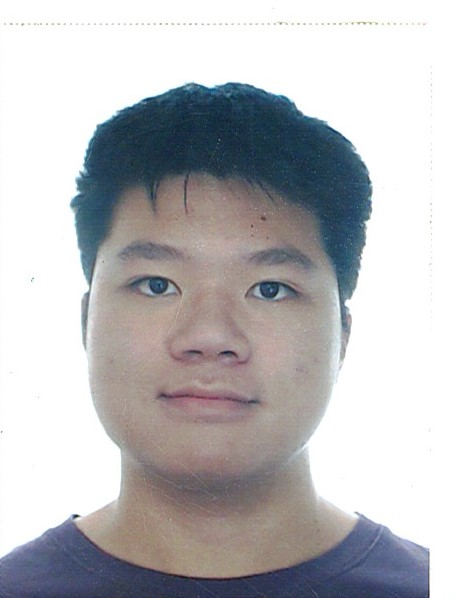
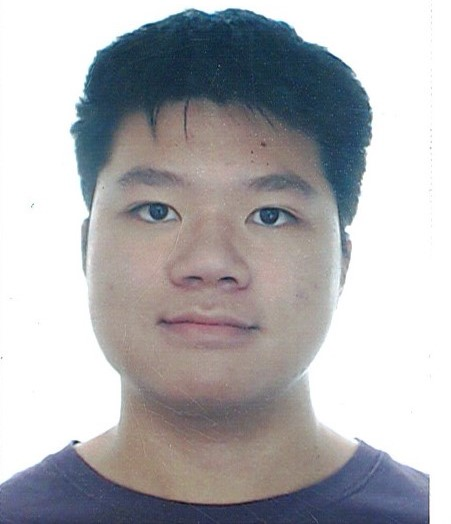
add member shuang

Changed region(s): [[0.1552, 0.0, 0.9623, 1.0], [0.0, 0.7939, 0.6208, 0.9771], [0.7761, 0.0305, 0.8381, 0.0611]]

diff --git a/_site/members.html b/_site/members.html
@@ -77,6 +77,12 @@
 			</li>
 		
 			<li>
+				<a href="/lab.html" >
+					Lab
+				</a>
+			</li>
+		
+			<li>
 				<a href="/contact.html" >
 					Contact Us
 				</a>
@@ -133,7 +139,9 @@
 				<div class="row">
 					<div class="col-md-4">
 						
+						<div class="member-image-container">
 						<img src="/assets/images/members/chiueh.jpg">
+						</div>
 						
 					</div>
 
@@ -187,7 +195,9 @@ Tzihong Chiueh’s research interests include Theoretical Astrophysics, Computat
 				<div class="row">
 					<div class="col-md-4">
 						
+						<div class="member-image-container">
 						<img src="/assets/images/members/bonwood.jpg">
+						</div>
 						
 					</div>
 
@@ -233,7 +243,9 @@ Tzihong Chiueh’s research interests include Theoretical Astrophysics, Computat
 				<div class="row">
 					<div class="col-md-4">
 						
+						<div class="member-image-container">
 						<img src="/assets/images/members/xuanweishan.jpg">
+						</div>
 						
 					</div>
 
@@ -288,7 +300,9 @@ Tzihong Chiueh’s research interests include Theoretical Astrophysics, Computat
 				<div class="row">
 					<div class="col-md-4">
 						
+						<div class="member-image-container">
 						<img src="/assets/images/members/koalakawaii.jpg">
+						</div>
 						
 					</div>
 
@@ -403,7 +417,9 @@ Tzihong Chiueh’s research interests include Theoretical Astrophysics, Computat
 				<div class="row">
 					<div class="col-md-4">
 						
+						<div class="member-image-container">
 						<img src="/assets/images/members/vicent.jpg">
+						</div>
 						
 					</div>
 
@@ -440,7 +456,9 @@ Tzihong Chiueh’s research interests include Theoretical Astrophysics, Computat
 				<div class="row">
 					<div class="col-md-4">
 						
+						<div class="member-image-container">
 						<img src="/assets/images/members/liChun.jpg">
+						</div>
 						
 					</div>
 
@@ -486,7 +504,9 @@ Tzihong Chiueh’s research interests include Theoretical Astrophysics, Computat
 				<div class="row">
 					<div class="col-md-4">
 						
+						<div class="member-image-container">
 						<img src="/assets/images/members/chunyen.jpg">
+						</div>
 						
 					</div>
 
@@ -532,7 +552,9 @@ Tzihong Chiueh’s research interests include Theoretical Astrophysics, Computat
 				<div class="row">
 					<div class="col-md-4">
 						
+						<div class="member-image-container">
 						<img src="/assets/images/members/arthurHsu.jpg">
+						</div>
 						
 					</div>
 
@@ -594,7 +616,9 @@ Tzihong Chiueh’s research interests include Theoretical Astrophysics, Computat
 				<div class="row">
 					<div class="col-md-4">
 						
+						<div class="member-image-container">
 						<img src="/assets/images/members/cliff.jpg">
+						</div>
 						
 					</div>
 
@@ -656,7 +680,9 @@ Tzihong Chiueh’s research interests include Theoretical Astrophysics, Computat
 				<div class="row">
 					<div class="col-md-4">
 						
+						<div class="member-image-container">
 						<img src="/assets/images/members/weininden.jpg">
+						</div>
 						
 					</div>
 
@@ -709,7 +735,9 @@ Tzihong Chiueh’s research interests include Theoretical Astrophysics, Computat
 				<div class="row">
 					<div class="col-md-4">
 						
+						<div class="member-image-container">
 						<img src="/assets/images/members/yiHao.jpg">
+						</div>
 						
 					</div>
 
@@ -777,6 +805,45 @@ Tzihong Chiueh’s research interests include Theoretical Astrophysics, Computat
 				</div>
 				
 				
+				
+				<div class="row">
+					<div class="col-md-4">
+						
+						<div class="member-image-container">
+						<img src="/assets/images/members/shuang.jpg">
+						</div>
+						
+					</div>
+
+					<div class="col-md-8">
+						<h4>陳雙雙 (Chen Shuang Shuang)</h4>
+						<ul>
+							<li>Position: Bachelor</li>
+
+							
+
+							<li>
+								Intro:<br>
+								<div class="intro" id="shuang">
+									I am a student at National Taiwan University Department of Physics. My research interests are dark matter and supermassive black holes. Now I am working on applying wave dark matter to the evolution of supermassive black holes.
+								</div>
+								
+								
+							</li>
+
+							
+							<li>
+								e-mail: <a href="shuangshuang0411@gmail.com">shuangshuang0411@gmail.com</a>
+							</li>
+							
+
+							
+			
+							
+						</ul>
+					</div>
+				</div>
+				
 				<hr>
 				
 				
@@ -790,7 +857,9 @@ Tzihong Chiueh’s research interests include Theoretical Astrophysics, Computat
 				<div class="row">
 					<div class="col-md-4">
 						
+						<div class="member-image-container">
 						<img src="/assets/images/members/edward.jpg">
+						</div>
 						
 					</div>
 

diff --git a/_site/lab.html b/_site/lab.html
@@ -5,7 +5,7 @@
 	<meta charset="utf-8">
 	<meta name="viewport" content="width=device-width, initial-scale=1">
 
-	<title> - NTU - CALAB</title>
+	<title>LAB - NTU - CALAB</title>
 	<!-- Icons--!>
 	<script src="https://kit.fontawesome.com/d7b40906a4.js" crossorigin="anonymous"></script>
 	<!-- BostStrapGrid -->
@@ -77,7 +77,7 @@
 			</li>
 		
 			<li>
-				<a href="/lab.html" >
+				<a href="/lab.html" style="color: #FFFFFF;">
 					Lab
 				</a>
 			</li>
@@ -97,32 +97,28 @@
 <div class="container-fluid">
 	<div class="row title">
 		<h1>
-			
+			LAB
 		</h1>
 	</div>
 </div>
 </header>
 
 
-<style type="text/css" media="screen">
-  .container {
-    margin: 10px auto;
-    max-width: 600px;
-    text-align: center;
-  }
-  h1 {
-    margin: 30px 0;
-    font-size: 4em;
-    line-height: 1;
-    letter-spacing: -1px;
-  }
-</style>
-
-<div class="container">
-  <h1>404</h1>
-
-  <p><strong>Page not found :(</strong></p>
-  <p>The requested page could not be found.</p>
+<div class="container-fluid">
+	<div class="row">
+		<div class="col-lg-8 offset-lg-2">
+			<ul>
+				<li>
+					通訊錄: <br>
+					<a href="https://docs.google.com/document/d/17pBgmNbkeEv8ZmBBigDXnXfpfPEdHvsmMxQUdEH5__M/edit">https://docs.google.com/document/d/17pBgmNbkeEv8ZmBBigDXnXfpfPEdHvsmMxQUdEH5__M/edit</a>
+				</li>
+				<li>
+					購買物品與報帳SOP: <br>
+					<a href="https://drive.google.com/file/d/1sb3OOs3VkU726Xsb9kSfqMJzve1fueA8/view?pli=1">https://drive.google.com/file/d/1sb3OOs3VkU726Xsb9kSfqMJzve1fueA8/view?pli=1</a>
+				</li>
+			</ul>
+		</div>
+	</div>
 </div>
 
 

diff --git a/_site/assets/css/style.css b/_site/assets/css/style.css
@@ -16,16 +16,29 @@ body {
 	margin-bottom: 20px;
 	}
 
-.list-container img {
-	max-height: 180px;
-	max-width: 180px;
-	float: right;
-	border-radius: 30px;
-	}
-
 .list-item_left {
 	float: left;
 	}
+
+.project-image-container img {
+	max-height: 180px;
+	float: right;
+	overflow: hidden;
+	}
+
+.member-image-container{
+	display: inline-block;
+	position: relative;
+	height: 180px;
+	width: 180px;
+	overflow: hidden;
+	border-radius: 50%;
+}
+
+.member-image-container img{
+	width: 100%;
+	height: auto;
+}
 /*==============================
           SIDE BAR
 ===============================*/

diff --git a/_site/projects.html b/_site/projects.html
@@ -77,6 +77,12 @@
 			</li>
 		
 			<li>
+				<a href="/lab.html" >
+					Lab
+				</a>
+			</li>
+		
+			<li>
 				<a href="/contact.html" >
 					Contact Us
 				</a>
@@ -103,7 +109,9 @@
 	<div class="row">
 		<div class="col-md-3 offset-md-2 list-item_left">
 			
+			<div class="project-image-container">
 			<img src='/assets/images/projects/project1.jpg' alt="Project icon">
+			</div>
 			
 		</div>
 		

diff --git a/_site/contact.html b/_site/contact.html
@@ -77,6 +77,12 @@
 			</li>
 		
 			<li>
+				<a href="/lab.html" >
+					Lab
+				</a>
+			</li>
+		
+			<li>
 				<a href="/contact.html" style="color: #FFFFFF;">
 					Contact Us
 				</a>

diff --git a/_site/index.html b/_site/index.html
@@ -77,6 +77,12 @@
 			</li>
 		
 			<li>
+				<a href="/lab.html" >
+					Lab
+				</a>
+			</li>
+		
+			<li>
 				<a href="/contact.html" >
 					Contact Us
 				</a>

diff --git a/_site/news.html b/_site/news.html
@@ -77,6 +77,12 @@
 			</li>
 		
 			<li>
+				<a href="/lab.html" >
+					Lab
+				</a>
+			</li>
+		
+			<li>
 				<a href="/contact.html" >
 					Contact Us
 				</a>

diff --git a/_site/publications.html b/_site/publications.html
@@ -77,6 +77,12 @@
 			</li>
 		
 			<li>
+				<a href="/lab.html" >
+					Lab
+				</a>
+			</li>
+		
+			<li>
 				<a href="/contact.html" >
 					Contact Us
 				</a>
